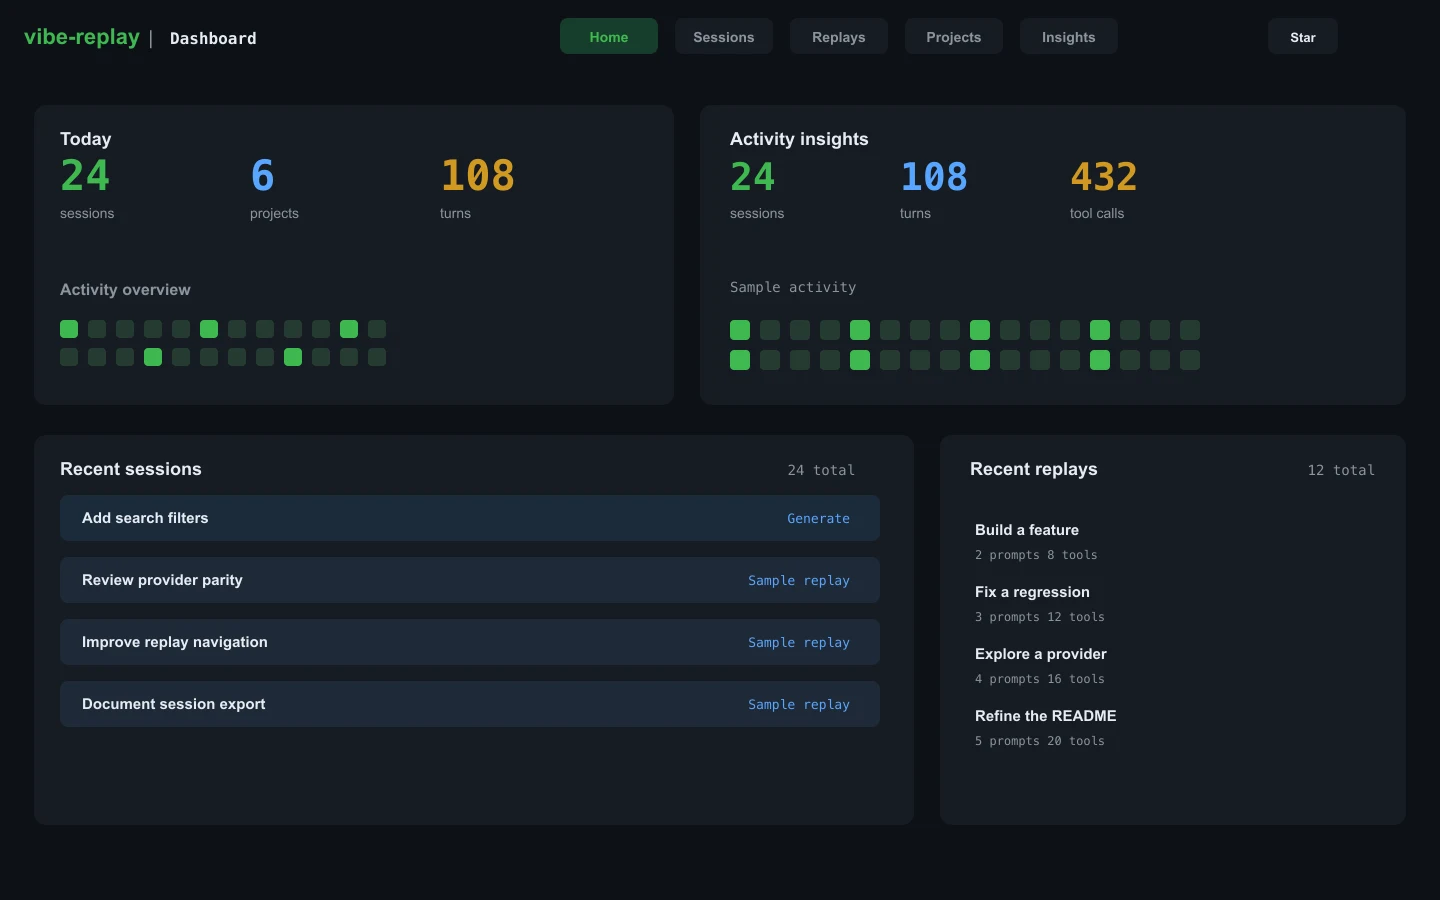
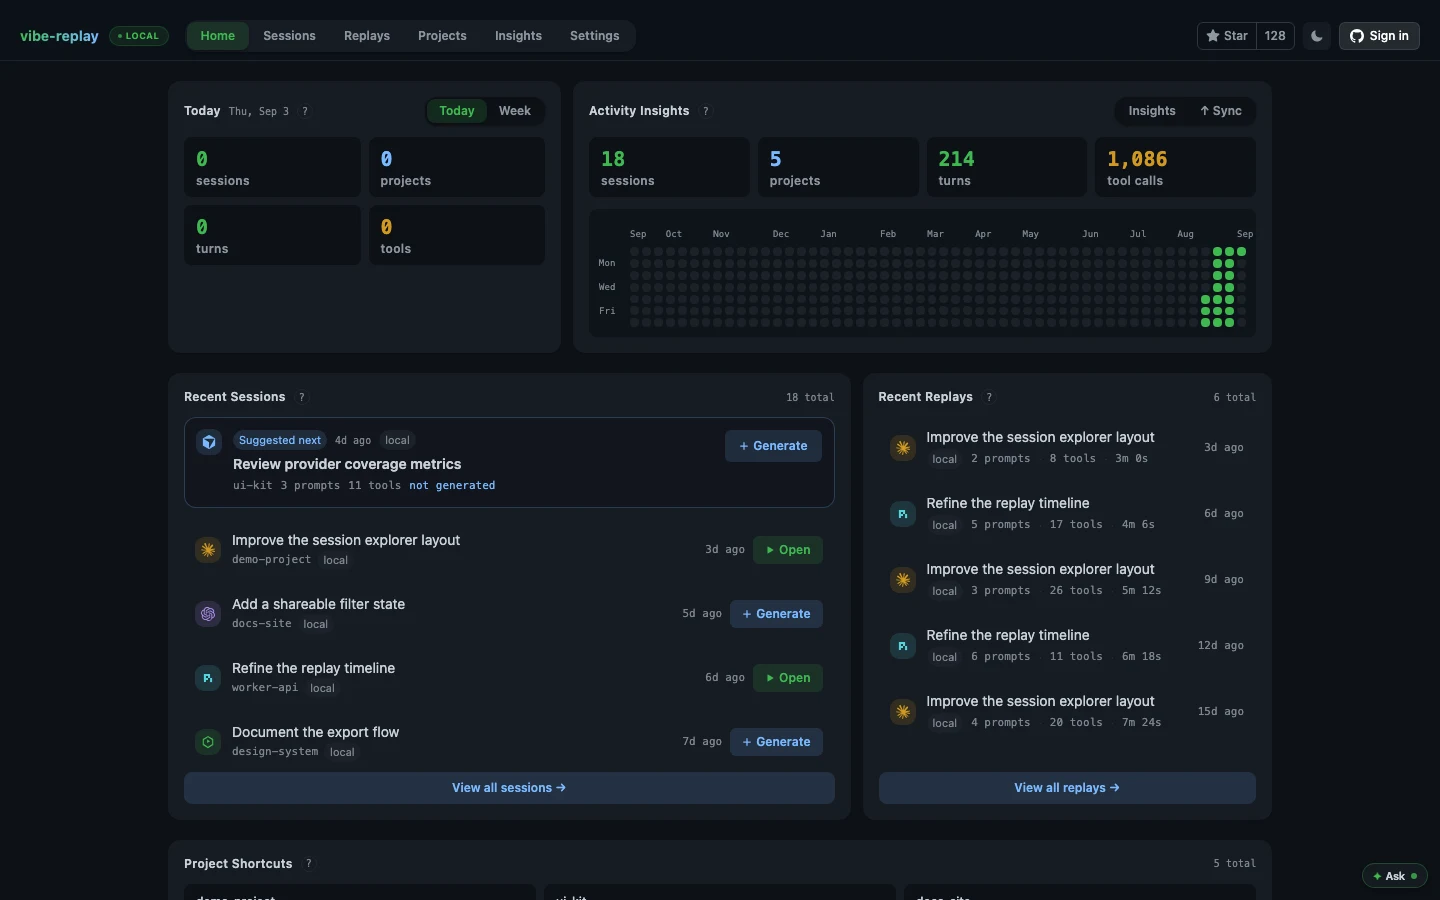
fix(marketing): refresh screenshots with current UI

diff --git a/website/src/content/blog/introducing-vibe-replay.md b/website/src/content/blog/introducing-vibe-replay.md
@@ -6,7 +6,7 @@ date: 2026-03-05
 readTime: "5 min read"
 ---
 
-[![The interactive replay of vibe-replay's origin session — 53 minutes, 8 prompts, 447 tool calls](/blog/replay-landing.png)](https://vibe-replay.com/view/?gist=586f3f56d9e6c82e3b60b42ea13b341e)
+[![Synthetic vibe-replay replay landing page showing a prompt, assistant response, session stats, and Watch Replay action](/blog/replay-landing.png)](https://vibe-replay.com/view/?gist=586f3f56d9e6c82e3b60b42ea13b341e)
 
 **[Watch the full interactive replay](https://vibe-replay.com/view/?gist=586f3f56d9e6c82e3b60b42ea13b341e)**
 
@@ -42,7 +42,7 @@ The full session has 663 scenes, but the story is concentrated in three turning 
 
 This is a full product vision, not "write me a function." Claude's response wasn't to start writing code either — it first researched competitors, searched for tools like asciinema and claudebin, analyzed their strengths and weaknesses, and only then proposed an architecture.
 
-![The vibe-replay player showing Claude Code's plan after the first prompt — research first, then build](/blog/replay-first-prompt.png)
+![Synthetic vibe-replay player showing the first prompt, assistant response, tool badges, and outline navigation](/blog/replay-first-prompt.png)
 
 ### 2. Knowing when to stop AI from building (Scene 218)
 
@@ -52,7 +52,7 @@ By this point, the core functionality was mostly working. But I noticed Claude C
 
 This is a crucial pattern in vibe coding: **AI's execution speed is a double-edged sword. The human's most important role isn't writing code — it's steering direction.**
 
-![Pulling the brakes on Claude Code — asking for competitor research before building more](/blog/replay-brakes.png)
+![Synthetic vibe-replay compact replay view showing the conversation outline and condensed assistant cards](/blog/replay-brakes.png)
 
 ### 3. Ten UX improvements in a single prompt (Scene 334)
 
@@ -65,7 +65,7 @@ This is a crucial pattern in vibe coding: **AI's execution speed is a double-edg
 
 One prompt drove changes across dozens of files. This is vibe coding at peak efficiency: **humans make UX decisions, AI handles implementation.** One prompt, 56 tool calls.
 
-![Ten UX improvements in a single prompt — Claude Code systematically implements each one](/blog/replay-ten-improvements.png)
+![Synthetic vibe-replay Insights view showing session overview, activity timeline, token composition, and context composition](/blog/replay-ten-improvements.png)
 
 ---
 

diff --git a/website/src/content/blog/claude-code-local-storage.md b/website/src/content/blog/claude-code-local-storage.md
@@ -26,7 +26,7 @@ Claude Code has a built-in `/resume` command that lets you browse past sessions 
 
 [vibe-replay](https://github.com/tuo-lei/vibe-replay) reads these same files and turns them into a browsable dashboard — organized by project, with activity charts, tool call counts, and cost estimates:
 
-![vibe-replay dashboard showing 152 sessions across 14 projects, 30-day activity chart, 27,699 total tool calls, and recent sessions list](/blog/claude-storage/dashboard.png)
+![Synthetic vibe-replay dashboard showing recent sessions, activity heatmaps, project shortcuts, and replay actions](/blog/claude-storage/dashboard.png)
 
 From here you can click into any session to replay it turn by turn, or drill into a project to see aggregated stats across all its sessions.
 
@@ -50,7 +50,7 @@ To be clear: if you're on Claude Max ($100 or $200/month), you're not actually p
 
 In vibe-replay, the Insights tab calculates this per session automatically — cost per turn, cumulative token burn, cache hit rate, and context window growth:
 
-![vibe-replay Insights showing token burn chart, 100% cache hit rate, context window usage growing to 203K tokens, and tool calls per turn](/blog/claude-storage/insights-charts.png)
+![Synthetic vibe-replay Insights view showing activity timing, token composition, context composition, and per-turn metrics](/blog/claude-storage/insights-charts.png)
 
 **The CLI way** (aggregate across all sessions — requires `jq`):
 
@@ -101,7 +101,7 @@ I assumed Claude Code mostly reads and edits files. The data tells a different s
 
 In the vibe-replay replay view, you can watch this play out in real time — what command Claude ran, what the output was, what it decided to do next:
 
-![vibe-replay All mode showing Claude's tool calls with bash commands, responses, and thinking blocks inline](/blog/claude-storage/all-mode-tools.png)
+![Synthetic vibe-replay replay showing prompts, assistant responses, tool badges, and the outline sidebar](/blog/claude-storage/all-mode-tools.png)
 
 **The CLI way:**
 

diff --git a/website/src/content/blog/dispatch-deep-dive.md b/website/src/content/blog/dispatch-deep-dive.md
@@ -102,9 +102,9 @@ Code-tab sessions running through Desktop pick up metadata the raw JSONL never s
 
 (That session is literally the implementation of the Cowork provider itself. The first prompt: *"Add support for Cowork (Dispatch) sessions to vibe-replay…"* The `dangerous mode` badge and `claude/crazy-ishizaka-06a286` branch name come from Desktop's metadata.)
 
-[![vibe-replay dashboard: 279 sessions — Claude Code 224, Claude Cowork 47, Cursor 6, Claude Desktop 2, plus activity heatmap](/blog/dispatch-deep-dive/dashboard.png)](/blog/dispatch-deep-dive/dashboard.png)
+[![Synthetic vibe-replay dashboard showing provider-aware recent sessions, replays, and activity heatmaps](/blog/dispatch-deep-dive/dashboard.png)](/blog/dispatch-deep-dive/dashboard.png)
 
-[![Sessions list showing CLAUDE, COWORK, and DESKTOP provider badges](/blog/dispatch-deep-dive/sessions-list.png)](/blog/dispatch-deep-dive/sessions-list.png)
+[![Synthetic sessions view showing provider-aware session rows and replay actions](/blog/dispatch-deep-dive/sessions-list.png)](/blog/dispatch-deep-dive/sessions-list.png)
 
 ---
 
